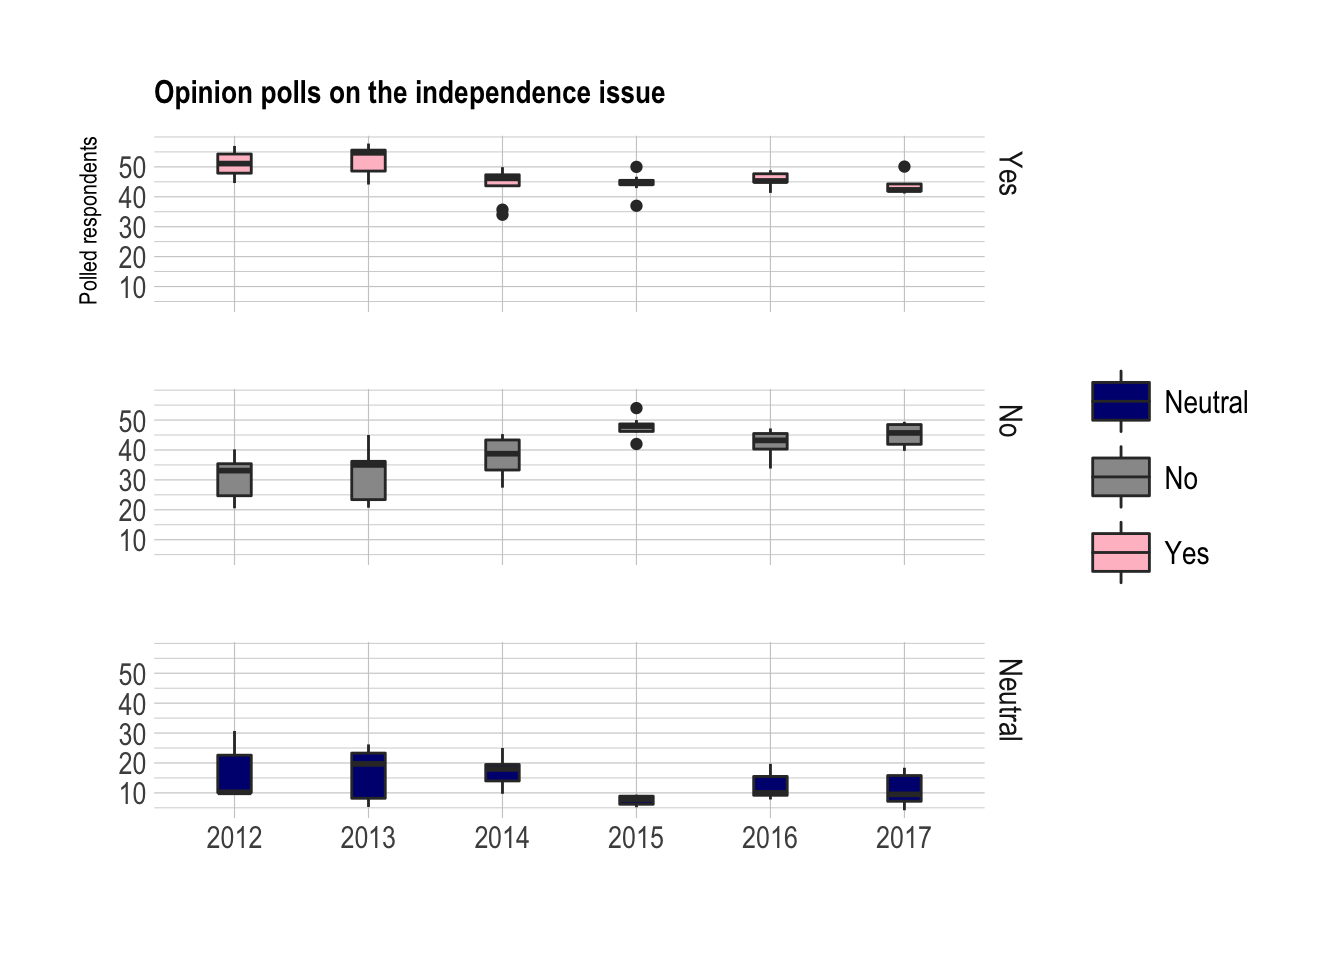
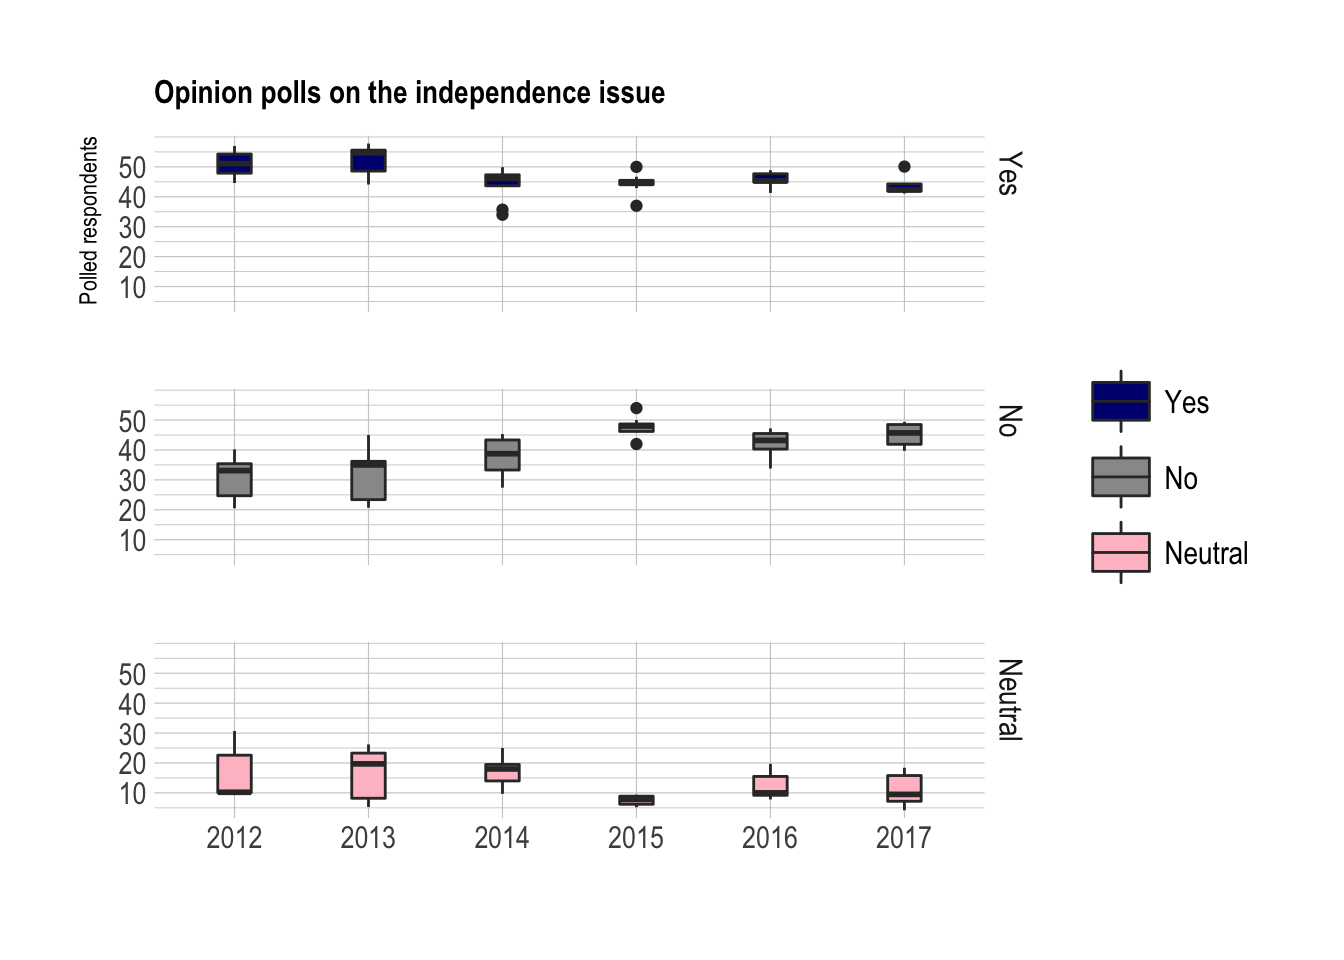
changes to legend order

diff --git a/content/post/2017-09-27-on-the-independence-issue.html b/content/post/2017-09-27-on-the-independence-issue.html
@@ -102,7 +102,7 @@ breakss &lt;- c(0,10,20,30,40,50)
 indepe$vote_f = factor(indepe$vote, levels=c(&#39;Yes&#39;,&#39;No&#39;,&#39;Neutral&#39;))
 
 # Plot boxplot
-p &lt;- ggplot(indepe, aes(factor(date),percentage, fill = factor(vote))) + geom_boxplot() + facet_grid(vote_f ~ .)
+p &lt;- ggplot(indepe, aes(factor(date),percentage, fill = vote_f)) + geom_boxplot() + facet_grid(vote_f ~ .)
 
 # Change colours and add legend, titles and axes labels
 p &lt;- p + scale_fill_manual(values=c( &quot;#00007f&quot;, &quot;#999999&quot;, &quot;#FFC0CB&quot;),

diff --git a/public/post/2017/09/27/on-the-independence-issue/index.html b/public/post/2017/09/27/on-the-independence-issue/index.html
@@ -125,7 +125,7 @@ breakss &lt;- c(0,10,20,30,40,50)
 indepe$vote_f = factor(indepe$vote, levels=c(&#39;Yes&#39;,&#39;No&#39;,&#39;Neutral&#39;))
 
 # Plot boxplot
-p &lt;- ggplot(indepe, aes(factor(date),percentage, fill = factor(vote))) + geom_boxplot() + facet_grid(vote_f ~ .)
+p &lt;- ggplot(indepe, aes(factor(date),percentage, fill = vote_f)) + geom_boxplot() + facet_grid(vote_f ~ .)
 
 # Change colours and add legend, titles and axes labels
 p &lt;- p + scale_fill_manual(values=c( &quot;#00007f&quot;, &quot;#999999&quot;, &quot;#FFC0CB&quot;),
